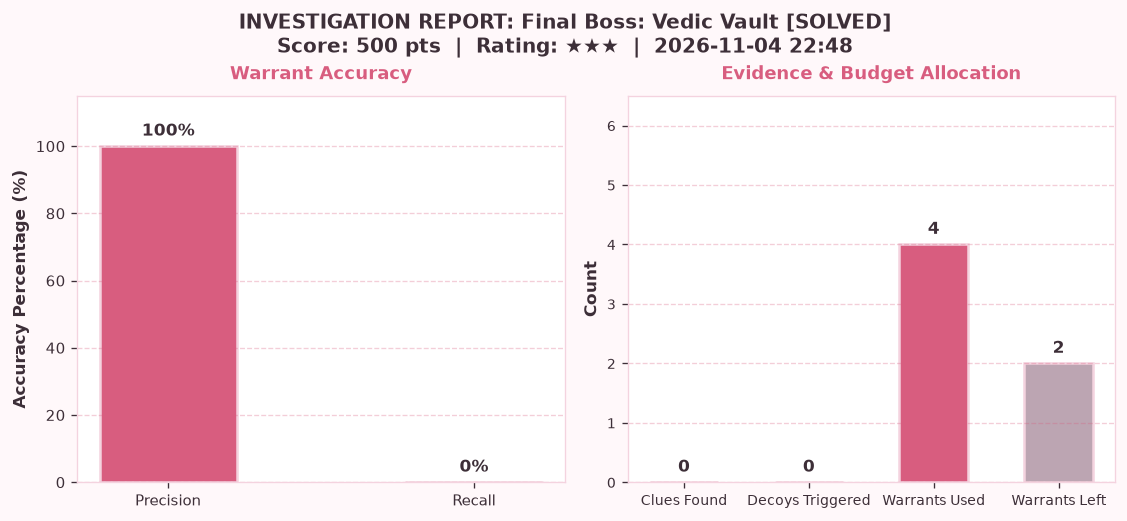
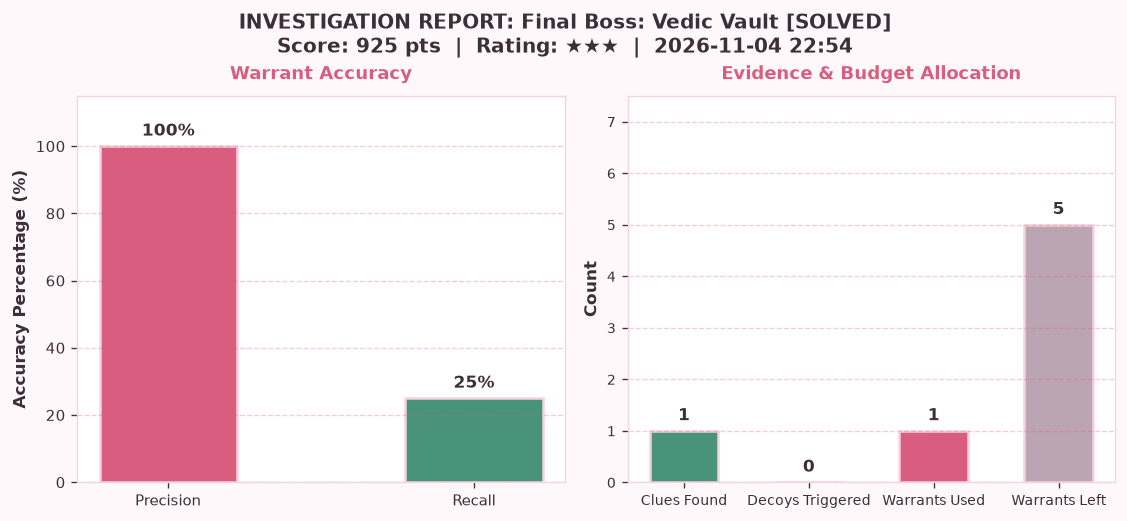
Final project polish

diff --git a/README.md b/README.md
@@ -1,0 +1,212 @@
+# Regex Detective / Shadowfiles 🕵✨
+
+> **A full-stack cybercrime investigation game where code meets forensic pattern extraction.**  
+> Built with **Flask**, **Python `re`**, **OOP**, **Pandas**, **NumPy**, **Matplotlib**, and a cozy **pink & white** terminal interface.
+
+---
+
+## 📖 1. Project Overview & Theme
+
+In **Regex Detective / Shadowfiles**, the player acts as a rookie cybercrime investigator assigned to the Delhi Cyber Bureau. An underground cybercrime network—the **Apex Syndicate**—is laundering funds, compromising ATMs, intercepting phone lines, and disguising classified memos across Indian metropolitan hubs (Connaught Place, Karol Bagh, Cyber Hub).
+
+Each case presents **messy digital evidence** such as server wiretaps, phone records, CCTV heat matrices, payment gateways, and encrypted ciphers. The player writes **regular expressions** to extract authentic clues, filter out deceptive decoys, manage limited warrant budgets, and apprehend the mastermind.
+
+### Visual Aesthetic
+The UI breaks away from generic dark cyberpunk templates, employing a **soft, cozy, handmade aesthetic** with:
+- Warm blush pink (`#d85d7f`) and cream white (`#ffffff`) palette
+- Delicate rounded cards and soft drop shadows
+- Animated live match highlighting directly inside log dossiers
+- Intuitive regex helper tokens (`\d`, `\w`, `+`, `*`, `{3}`, `@`, `\.`, `^`, `$`)
+
+---
+
+## 🛠 2. Technology Stack
+
+- **Backend Framework**: [Flask](https://flask.palletsprojects.com/) (REST API architecture)
+- **Regex & Pattern Engine**: Python standard `re` module (`re.compile`, `re.findall`, `re.sub`, error trapping `re.error`)
+- **Object-Oriented Programming (OOP)**:
+  - `Evidence` hierarchy (`Evidence`, `EmailEvidence`, `ChatEvidence`)
+  - `Case` domain model with encapsulated answers and decoy verification
+  - `Player` profile tracking score, reputation, and inventory
+  - `DetectiveEngine` for warrant execution and scoring
+- **Memory Efficiency**: Python **Generators** (`yield`) for line-by-line streaming of large log files
+- **Data Science & Forensics**:
+  - **Pandas**: Structured banking telemetry table analysis (`forensics_logs.csv`)
+  - **NumPy**: $8 \times 8$ matrix grid representing CCTV thermal sensors
+  - **Matplotlib**: Automatic headless generation of visual post-case report charts
+- **Persistence Layer**:
+  - **JSON**: Case definitions and serialized progression (`data/cases/`)
+  - **Pickle**: Binary session state saving and restoration (`data/saves/`)
+  - **CSV**: Persistent player leaderboard (`data/leaderboard.csv`)
+  - **Append-Only Text**: Timestamped detective field journal (`data/notes/`)
+- **Frontend**: HTML5, Vanilla CSS3, Modern ES6 JavaScript (`fetch` API, live DOM highlighting)
+
+---
+
+## 🕹 3. Core Gameplay & Scoring Mechanics
+
+### Mathematical Scoring Logic
+$$\text{Score} = (\text{Recall} \times 500) + (\text{Precision} \times 300) + \text{Brevity Bonus} - \text{Decoy Penalty} - \text{Attempt Penalty}$$
+
+1. **Precision**: $\frac{\text{Correct Clues Found}}{\text{Total Matches Caught}}$ (Penalizes false positives and decoys)
+2. **Recall**: $\frac{\text{Correct Clues Found}}{\text{Total Target Clues In Case}}$ (Measures completeness)
+3. **Brevity Bonus**: Up to $+50$ points for concise, elegant regex when all clues are identified cleanly without noise.
+4. **Decoy Penalty**: $-40$ points for each decoy triggered by an overly broad pattern.
+5. **Search Budget**: Each search consumes $1$ warrant. If exhausted, searches are blocked (`WarrantBudgetExceeded`).
+6. **Reputation & Accusation**:
+   - Correct Accusation: $+20$ Reputation, $+200$ points ($+500$ on final boss), marks case **SOLVED**.
+   - False Accusation: $-20$ Reputation. If reputation drops to $0\%$, the case is marked **FAILED**.
+7. **Star Rating**:
+   - `★★★` (3 Stars): $100\%$ Recall + $100\%$ Precision (Zero decoys triggered)
+   - `★★☆` (2 Stars): $100\%$ Recall with decoys, or $\ge 50\%$ balanced
+   - `★☆☆` (1 Star): Partial clues captured
+   - `☆☆☆` (0 Stars): Dead end (no valid clues)
+
+---
+
+## 🗂 4. Progression of the 8 Playable Cases
+
+| Case | Title | Regex / Tool Focus | Target Evidence | Culprit |
+|---|---|---|---|---|
+| **Case 01** | **Operation Dark Rupee** | `\d`, character sets, length | Delhi 6-digit PIN codes (`110XXX`) | `Rajesh Oberoi` |
+| **Case 02** | **Operation Hawala Wire** | Quantifiers & anchors | Active phone lines (`+91-98XXX-XXXXX`) | `Vikram Malhotra` |
+| **Case 03** | **The UPI Syndicate** | Groups `()` & alternation `\|` | Bank UPI handles (`@okhdfcbank\|@oksbi`) | `Pooja Verma` |
+| **Case 04** | **The Midnight Alibi** | Dates & 24-hr times | Late-night timestamps (`2026-11-0[45] (?:23\|00\|01):\d{2}`) | `Alok Verma` |
+| **Case 05** | **Forensics Lab: Data Breach** | **Pandas** DataFrame | Rogue device telemetry (`DEV-[A-Z]{3}-\d{4}`) | `Karan Saxena` |
+| **Case 06** | **CCTV Surveillance Grid** | **NumPy** $8 \times 8$ Matrix | Thermal camera surge coordinates (`CAM-[A-H][1-8]`) | `Suresh Nair` |
+| **Case 07** | **Operation Redacted Shadow** | **`re.sub()`** De-masking | Unmasked secret project codes (`CODE-[A-Z]{4,5}-\d{2}`) | `Monica Dsouza` |
+| **Case 08** | **👑 Final Boss: Vedic Vault** | **Master Mixed Challenge** | Zero-hour time + Architect line + Treasury UPI + Vedic key | `Dr. Aryan Dev` |
+
+---
+
+## 📁 5. Project Directory Structure
+
+```text
+regex_detective/
+├── app.py                     # Flask application & REST API routes
+├── requirements.txt           # Python dependencies
+├── README.md                  # Project documentation & presentation guide
+├── .gitignore                 # Version control filter
+├── game/                      # Core OOP domain package
+│   ├── __init__.py            # Package exports
+│   ├── evidence.py            # Evidence hierarchy, Case model & generators
+│   ├── engine.py              # Regex matching, scoring math & SearchResult
+│   ├── exceptions.py          # Custom game exceptions hierarchy
+│   ├── storage.py             # Pickle session, CSV leaderboard & notes
+│   ├── analytics.py           # Pandas telemetry, NumPy CCTV & Matplotlib reports
+│   └── vault.py               # Final Boss Vedic Vault case & chamber logic
+├── data/                      # File-based persistence directory
+│   ├── cases/                 # Case definitions (case_01.json -> case_08.json)
+│   ├── evidence/              # Raw data files (forensics_logs.csv, intercepts)
+│   ├── saves/                 # Binary pickle player saves (*.pkl)
+│   ├── notes/                 # Append-only detective notes (detective_notes.txt)
+│   ├── reports/               # Generated Matplotlib charts (*_report.png)
+│   └── leaderboard.csv        # Persistent CSV leaderboard
+├── static/                    # Frontend assets
+│   ├── css/
+│   │   └── style.css          # Cozy soft pink/white theme stylesheet
+│   └── js/
+│       └── app.js             # Async Fetch controller & live match highlighter
+└── templates/
+    └── index.html             # Main detective dashboard interface
+```
+
+---
+
+## 🚀 6. Local Setup & Quickstart
+
+### Prerequisites
+- Python 3.10+ (tested on Python 3.14)
+- `pip` package manager
+
+### Installation Steps
+
+1. **Navigate to the project directory**:
+   ```powershell
+   cd "regex_detective"
+   ```
+
+2. **(Optional) Create and activate a virtual environment**:
+   ```powershell
+   python -m venv venv
+   .\venv\Scripts\Activate.ps1
+   ```
+
+3. **Install dependencies**:
+   ```powershell
+   pip install -r requirements.txt
+   ```
+
+4. **Start the Flask server**:
+   ```powershell
+   python app.py
+   ```
+
+5. **Open your web browser**:
+   Navigate to:
+   ```text
+   http://127.0.0.1:5000/
+   ```
+   *(Or `/play` to jump directly into the investigation dashboard)*
+
+---
+
+## 📡 7. REST API Reference
+
+| Endpoint | Method | Payload / Params | Description |
+|---|---|---|---|
+| `/` | `GET` | Header: `Accept: text/html` or `application/json` | Serves dashboard UI or API system health JSON |
+| `/case/<id>` | `GET` | URL param (e.g. `1`, `case_01`, `vault`) | Returns case briefing, evidence text, suspects & budget |
+| `/search` | `POST` | `{"case_id": "case_01", "pattern": "..."}` | Validates regex, updates budget, scores warrant |
+| `/accuse` | `POST` | `{"case_id": "case_01", "suspect": "..."}` | Accuses suspect, updates reputation, generates report |
+| `/case/<id>/reset` | `POST` | URL param | Restores search budget for re-attempts |
+| `/case/<id>/report`| `GET` | URL param | Returns case summary metrics and Matplotlib chart path |
+| `/reports/<file>`  | `GET` | Filename (e.g. `case_01_report.png`) | Serves generated visual report image binary |
+| `/session/save`    | `POST` | `{"slot": "save_01"}` | Saves player state using Python `pickle` |
+| `/session/load`    | `POST` | `{"slot": "save_01"}` | Deserializes player state from pickle file |
+| `/session/saves`   | `GET` | None | Lists available local save slots |
+| `/leaderboard`     | `GET` | None | Returns top scores from `data/leaderboard.csv` |
+| `/notes`           | `GET` / `POST` | `{"case_id": "...", "note": "..."}` | Appends or retrieves timestamped detective field notes |
+
+---
+
+## 🎓 8. Viva & Presentation Guide
+
+Use this section as a reference when presenting the project in class, vivas, or technical demonstrations.
+
+### 🎤 30-Second Elevator Pitch
+> *"Regex Detective is a gamified cybercrime forensic dashboard. Instead of dry theoretical regex exercises, students step into the shoes of a cyber detective solving 8 narrative cases. Using Flask, Python's `re` engine, Pandas, NumPy, and Matplotlib, players analyze intercepted chats, bank telemetry, and thermal grids. Overly broad patterns catch realistic decoys and penalize precision, while elegant patterns unlock stars, generate visual case analytics charts, and breach the final multi-chamber Vedic Vault."*
+
+### 🔑 Key Architectural Design Decisions
+1. **Why Python's `re` instead of client-side JavaScript regex?**
+   - *Security & Engine Integrity*: Server-side validation guarantees consistent POSIX/Python regex behavior, prevents client manipulation of game state, and allows catching `re.error` to return custom in-game exceptions (`InvalidWarrantError`).
+2. **How does the scoring math prevent brute-force guessing?**
+   - *Set Math*: Player matches and target answers are modeled as Python `set`s.
+   - Precision ($\text{Hits} / \text{Total Matches}$) immediately drops if a player writes a lazy catch-all like `.*` or `\d+`, which triggers decoy traps.
+   - Attempt penalties and hard warrant limits prevent repetitive trial-and-error.
+3. **How are generators used?**
+   - `Evidence.lines()` is a Python generator (`yield`). For large logs (like multi-megabyte server dumps), evidence is streamed line-by-line without consuming excessive RAM.
+4. **Why multiple persistence methods (JSON, Pickle, CSV, Text)?**
+   - To demonstrate appropriate file handling for different data models:
+     - **JSON** for human-readable, schema-based case configuration.
+     - **Pickle** for binary object serialization of the active `Player` session state.
+     - **CSV** for tabular, sortable leaderboard history.
+     - **Append-Only Text** for timestamped audit logs and field notes.
+5. **How does Matplotlib integrate into a web app safely?**
+   - Matplotlib defaults to GUI backends (like Tkinter/Qt), which crash headless web servers. By explicitly invoking `matplotlib.use("Agg")`, charts are rendered directly into headless image buffers and closed with `plt.close(fig)` to eliminate memory leaks.
+
+### ❓ Sample Viva Questions & Quick Answers
+
+- **Q: What happens if a player types an invalid regular expression like `[0-9(`?**  
+  *A:* The engine intercepts the syntax error through a `try...except re.error` block and raises our custom domain exception `InvalidWarrantError`. Instead of an HTTP 500 crash, the API returns HTTP 400 with the friendly message *"Invalid warrant! Regex error: unterminated character set"*.
+
+- **Q: How does Case 7 use `re.sub()`?**  
+  *A:* Case 7 contains redacted darknet memos where sensitive project codes are obscured by noise wrappers (`###CODE-...###`). The player uses substitution patterns to strip the noise or extract the unmasked authorization tokens.
+
+- **Q: What makes the Vedic Vault finale unique?**  
+  *A:* Unlike earlier cases that test one isolated pattern type, the Vedic Vault combines zero-hour timestamps, phone lines, UPI handles, and redacted master keys across 4 distinct security chambers. The backend tracks breach percentage and awards special `MASTER_SOLVED` status upon indicting the Architect.
+
+---
+
+## 📜 9. License & Academic Attribution
+Developed as an advanced Computer Programming academic mini project. Free to extend for educational and learning purposes.
